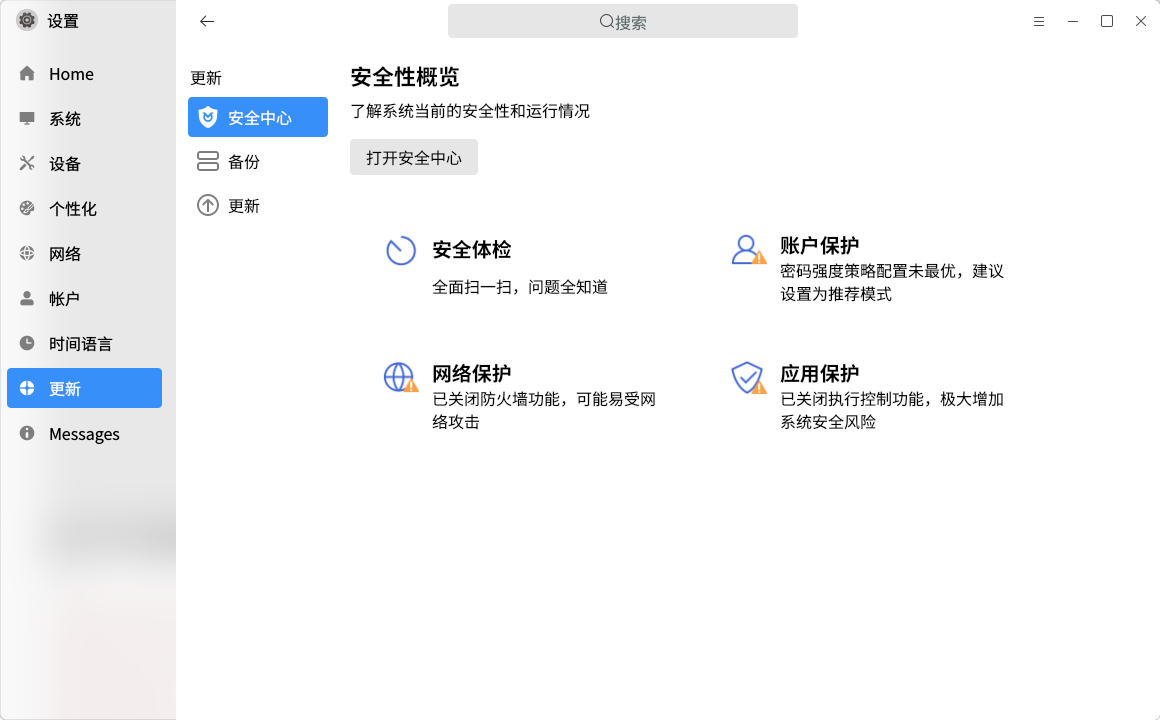
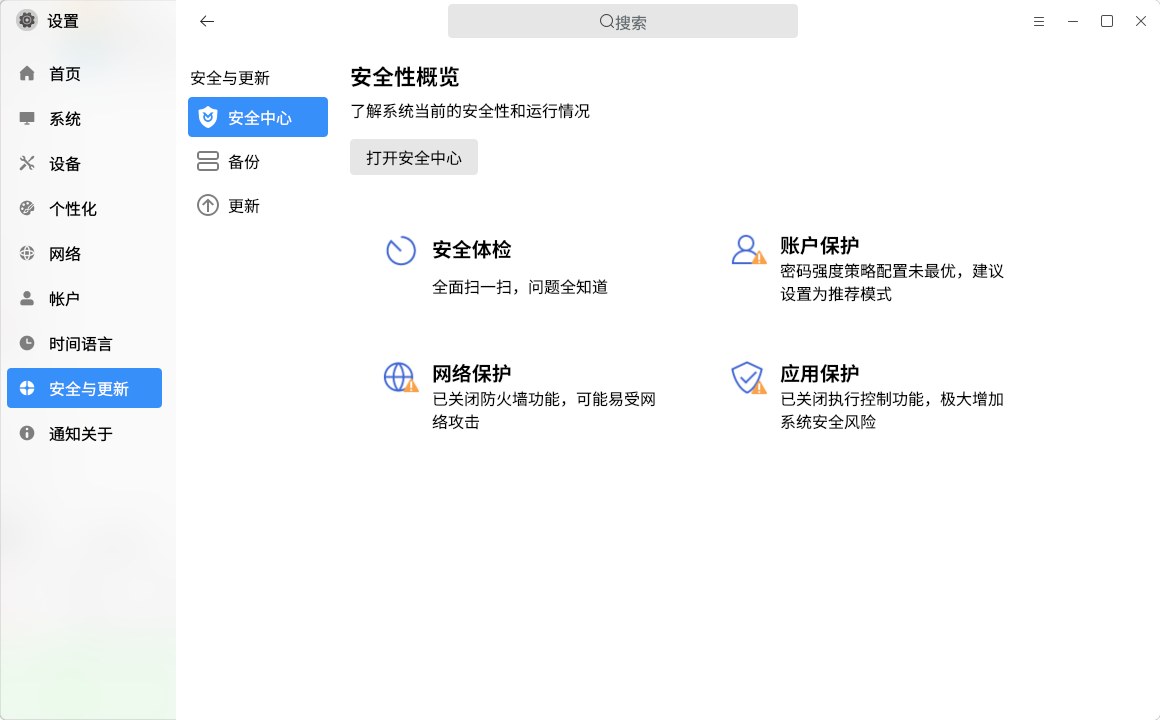
fix(UserManual): UserManual
Description: UserManual

Log: 【用户手册】【控制面板|设置】控制面板的用户手册左侧的标签栏重复名“更新”和错误名“和操作”
Bug: 172.17.66.192/biz/bug-view-83020.html

diff --git a/data/zh_CN/index.md b/data/zh_CN/index.md
@@ -424,7 +424,7 @@ Tips：系统至少需要存在一个管理员用户。
 
 <br>
 
-## 更 新
+## 安全与更 新
 ### 安全中心
 提供了安全中心的入口。
 
@@ -478,7 +478,7 @@ Tips：系统至少需要存在一个管理员用户。
 
 
 
-## 和操作
+## 通知关于
 ### 通 知
 用户可在此对部分应用进行是否接受通知的设置，如图所示：
 
